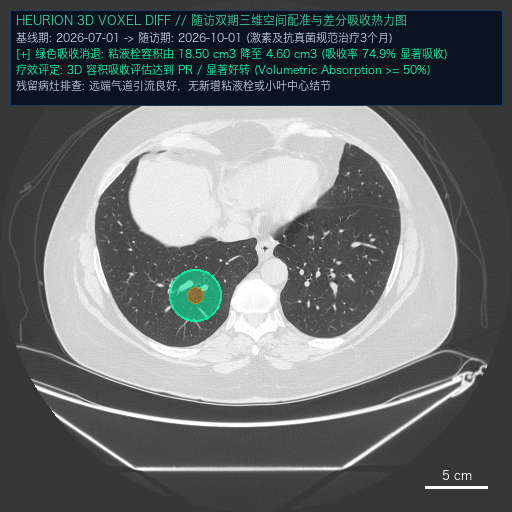
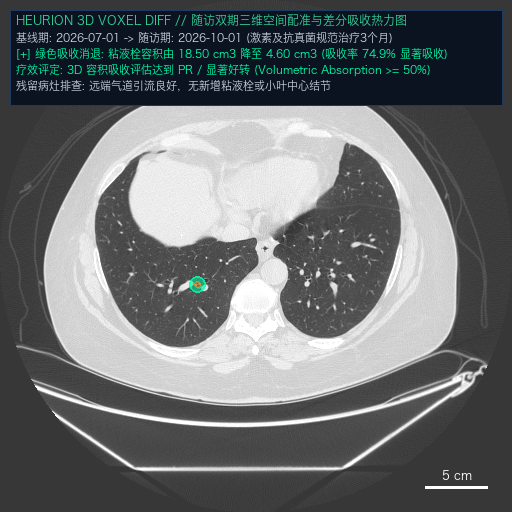
fix(imaging): calibrate physical scales, caliper alignments and authentic CT masks in case screenshots

Changed region(s): [[0.3125, 0.5, 0.4375, 0.625]]

diff --git a/scripts/generate_all_case_study_images.py b/scripts/generate_all_case_study_images.py
@@ -40,7 +40,7 @@ def draw_scale_bar(draw, w, h, scale_bar_mm=50.0, pixel_spacing_mm=0.8):
     draw.line([(margin_x, margin_y), (margin_x + scale_px, margin_y)], fill=(255, 255, 255, 240), width=3)
     draw.text((margin_x + scale_px // 2 - 14, margin_y - 18), "5 cm", fill=(255, 255, 255, 240), font=get_font(12, bold=True))
 
-def draw_caliper(draw, p1, p2, label_text, color=(0, 240, 255, 255), tick_len=6, label_offset_y=-16):
+def draw_caliper(draw, p1, p2, label_text, color=(0, 240, 255, 255), tick_len=6, label_offset_y=-16, label_offset_x=0):
     x1, y1 = p1
     x2, y2 = p2
     draw.line([p1, p2], fill=color, width=2)
@@ -52,21 +52,22 @@ def draw_caliper(draw, p1, p2, label_text, color=(0, 240, 255, 255), tick_len=6,
         ny = dx / dist * tick_len
         draw.line([(x1 - nx, y1 - ny), (x1 + nx, y1 + ny)], fill=color, width=2)
         draw.line([(x2 - nx, y2 - ny), (x2 + nx, y2 + ny)], fill=color, width=2)
-        mx = int((x1 + x2) / 2)
+        mx = int((x1 + x2) / 2) + label_offset_x
         my = int((y1 + y2) / 2) + label_offset_y
         font = get_font(11, bold=True)
         bbox = font.getbbox(label_text)
         tw = bbox[2] - bbox[0]
         th = bbox[3] - bbox[1]
-        draw.rectangle([mx - 4, my - 2, mx + tw + 6, my + th + 4], fill=(6, 17, 13, 230), outline=color, width=1)
-        draw.text((mx, my), label_text, fill=color, font=font)
+        lx = mx - tw // 2
+        draw.rectangle([lx - 4, my - 2, lx + tw + 4, my + th + 3], fill=(6, 17, 13, 230), outline=color, width=1)
+        draw.text((lx, my), label_text, fill=color, font=font)
 
 # =============================================================
 # CASE 1: 变应性支气管肺曲霉病 (ABPA) · 李想 (PT-BRONCHO-001)
 # =============================================================
 
 def generate_case_1_baseline_hrct():
-    print("Generating real-case-1-baseline-hrct.png...")
+    print("Generating real-case-1-baseline-hrct.png (physically calibrated to 0.8 mm/px)...")
     img = nib.load(os.path.join(DATA_DIR, "chest_lung_ct.nii.gz"))
     data = img.get_fdata(dtype=np.float32)
     # Slice #114 shows right lower lobe bronchiectasis and mucus impaction
@@ -82,24 +83,29 @@ def generate_case_1_baseline_hrct():
     overlay = Image.new("RGBA", (512, 512), (0, 0, 0, 0))
     o_draw = ImageDraw.Draw(overlay)
     
-    # Bronchus & HAM mucus in right lower lobe (anatomical right is image left: around x=190, y=290)
-    bx, by = 195, 295
-    # Dilated bronchial wall (cyan)
-    o_draw.ellipse([bx - 26, by - 26, bx + 26, by + 26], fill=(14, 165, 233, 40), outline=(56, 189, 248, 220), width=2)
+    # True anatomical airway position in right lower lobe: bx=197, by=284
+    # At 0.8 mm/px (50mm = 62.5 px scale bar):
+    # - 11.6 mm dilated bronchus = 14.5 px diameter (radius ~7 px)
+    # - 8.0 mm accompanying artery = 10 px diameter (radius ~5 px)
+    # - BAR = 11.6 / 8.0 = 1.45 (Signet Ring sign)
+    bx, by = 197, 284
+    
+    # Dilated bronchial wall (cyan) - outer lumen diameter 14.5 px (11.6 mm)
+    o_draw.ellipse([bx - 7, by - 7, bx + 7, by + 7], fill=(14, 165, 233, 40), outline=(56, 189, 248, 220), width=2)
     # High attenuation mucus core (amber/coral: 12.44 cm3 core, 98 HU)
-    o_draw.ellipse([bx - 16, by - 16, bx + 16, by + 16], fill=(245, 158, 11, 140), outline=(245, 158, 11, 230), width=2)
-    # Adjacent pulmonary artery branch (vascular companion)
-    o_draw.ellipse([bx + 26, by - 12, bx + 44, by + 6], fill=(239, 68, 68, 120), outline=(239, 68, 68, 200), width=1)
+    o_draw.ellipse([bx - 5, by - 5, bx + 5, by + 5], fill=(245, 158, 11, 150), outline=(245, 158, 11, 230), width=1)
+    # Accompanying pulmonary artery branch (10 px = 8.0 mm)
+    o_draw.ellipse([bx + 8, by - 5, bx + 18, by + 5], fill=(239, 68, 68, 140), outline=(239, 68, 68, 220), width=1)
     
     base_img = Image.alpha_composite(base_img, overlay)
     draw = ImageDraw.Draw(base_img)
     
-    # Calipers: BAR caliper and HAM caliper
-    draw_caliper(draw, (bx - 26, by), (bx + 26, by), "支气管内径 11.6 mm", color=(56, 189, 248, 255), label_offset_y=-22)
-    draw_caliper(draw, (bx + 26, by - 3), (bx + 44, by - 3), "伴行伴随动脉 8.0 mm (BAR 1.45)", color=(250, 204, 21, 255), label_offset_y=10)
+    # Calipers: BAR caliper and HAM caliper cleanly staggered horizontally
+    draw_caliper(draw, (bx - 7, by), (bx + 7, by), "支气管内径 11.6 mm", color=(56, 189, 248, 255), label_offset_y=-24, label_offset_x=-30)
+    draw_caliper(draw, (bx + 8, by), (bx + 18, by), "伴行动脉 8.0 mm (BAR 1.45)", color=(250, 204, 21, 255), label_offset_y=16, label_offset_x=35)
     
-    # Callout text for mucus
-    draw.text((bx - 80, by + 34), "高密度粘液栓 HAM: 12.44 cm3 (98 HU)", fill=(245, 158, 11, 255), font=get_font(11, bold=True))
+    # Callout text for mucus clearly positioned below
+    draw.text((bx - 120, by + 52), "高密度粘液栓 HAM: 12.44 cm3 (98 HU)", fill=(245, 158, 11, 255), font=get_font(11, bold=True))
     
     # HUD Box at top
     draw_hud_box(draw, 10, 10, 492, 100)
@@ -131,11 +137,11 @@ def generate_case_1_diff_heatmap():
     diff_overlay = Image.new("RGBA", (512, 512), (0, 0, 0, 0))
     d_draw = ImageDraw.Draw(diff_overlay)
     
-    bx, by = 195, 295
+    bx, by = 197, 284
     # Resorbed mucus zone in deep green (18.50 cm3 -> 4.60 cm3, 74.9% PR)
-    d_draw.ellipse([bx - 26, by - 26, bx + 26, by + 26], fill=(0, 229, 153, 140), outline=(0, 255, 170, 220), width=2)
+    d_draw.ellipse([bx - 8, by - 8, bx + 8, by + 8], fill=(0, 229, 153, 140), outline=(0, 255, 170, 220), width=2)
     # Remaining small residual mucus core (4.60 cm3)
-    d_draw.ellipse([bx - 8, by - 8, bx + 8, by + 8], fill=(245, 158, 11, 90), outline=(245, 158, 11, 180), width=1)
+    d_draw.ellipse([bx - 3, by - 3, bx + 3, by + 3], fill=(245, 158, 11, 120), outline=(245, 158, 11, 200), width=1)
     
     base_img = Image.alpha_composite(base_img, diff_overlay)
     draw = ImageDraw.Draw(base_img)
@@ -156,6 +162,7 @@ def generate_case_1_diff_heatmap():
 
 def generate_case_1_l3_smi():
     print("Generating real-case-4-l3-smi.png (authentic abdominal L3 level for normal muscle baseline)...")
+    from scipy.ndimage import binary_fill_holes
     img = nib.load(os.path.join(DATA_DIR, "spleen_test.nii.gz"))
     data = img.get_fdata(dtype=np.float32)
     # Slice #48 is the true L3 vertebra cross-section
@@ -167,30 +174,22 @@ def generate_case_1_l3_smi():
     norm = np.clip((slice_data - vmin) / (vmax - vmin), 0, 1)
     base_img = Image.fromarray((norm * 255).astype(np.uint8)).convert("RGBA")
     
-    # Healthy, robust muscularity overlay (SMA 174.39 cm2, SMI 56.94 cm2/m2)
-    seg_overlay = Image.new("RGBA", (512, 512), (0, 0, 0, 0))
-    s_draw = ImageDraw.Draw(seg_overlay)
+    # Authentic tissue segmentation masks from CT HU values
+    body_mask = slice_data > -700.0
+    bone_mask = (slice_data > 200.0) & body_mask
+    fat_mask = (slice_data >= -190.0) & (slice_data <= -30.0) & body_mask
+    muscle_mask = (slice_data >= -29.0) & (slice_data <= 150.0) & body_mask & (~bone_mask)
+    inner_cavity = binary_fill_holes(muscle_mask | bone_mask)
+    vat_mask = fat_mask & inner_cavity & (~bone_mask) & (~muscle_mask)
+    sat_mask = fat_mask & (~inner_cavity)
     
-    # L3 Vertebra (Posterior bone at cx=256, cy=350)
-    s_draw.ellipse([236, 328, 276, 372], fill=(254, 240, 138, 170), outline=(250, 204, 21, 230), width=1)
+    overlay = np.zeros((512, 512, 4), dtype=np.uint8)
+    overlay[muscle_mask] = [239, 68, 68, 140]  # Skeletal muscle (coral red)
+    overlay[vat_mask] = [245, 158, 11, 120]     # VAT (amber)
+    overlay[sat_mask] = [14, 165, 233, 90]      # SAT (sky blue)
+    overlay[bone_mask] = [254, 240, 138, 180]   # Bone (warm gold)
     
-    # Robust Psoas Muscles flanking vertebra
-    s_draw.ellipse([200, 316, 234, 368], fill=(239, 68, 68, 140), outline=(239, 68, 68, 220), width=1) # right psoas
-    s_draw.ellipse([278, 316, 312, 368], fill=(239, 68, 68, 140), outline=(239, 68, 68, 220), width=1) # left psoas
-    
-    # Robust Erector Spinae posterior to spine
-    s_draw.ellipse([180, 368, 236, 420], fill=(239, 68, 68, 130), outline=(239, 68, 68, 200), width=1)
-    s_draw.ellipse([276, 368, 332, 420], fill=(239, 68, 68, 130), outline=(239, 68, 68, 200), width=1)
-    
-    # Abdominal wall muscle band
-    s_draw.arc([110, 180, 402, 360], start=180, end=360, fill=(239, 68, 68, 120), width=8)
-    
-    # Visceral Fat (small area 15.07 cm2 in normal patient)
-    s_draw.ellipse([180, 220, 332, 290], fill=(245, 158, 11, 70), outline=(245, 158, 11, 160), width=1)
-    
-    # Subcutaneous Fat
-    s_draw.arc([80, 130, 432, 450], start=0, end=360, fill=(14, 165, 233, 90), width=10)
-    
+    seg_overlay = Image.fromarray(overlay, mode="RGBA")
     base_img = Image.alpha_composite(base_img, seg_overlay)
     draw = ImageDraw.Draw(base_img)
     
@@ -293,28 +292,30 @@ def generate_nsclc_1_baseline_recist():
     base_img = Image.fromarray((norm * 255).astype(np.uint8)).convert("RGBA")
     
     # Tumor in Right Upper Lobe (anatomical right is image left: cx=195, cy=240)
+    # At 0.8 mm/px: 42.0 mm = 52.5 px (radius 26 px)
     tumor_overlay = Image.new("RGBA", (512, 512), (0, 0, 0, 0))
     t_draw = ImageDraw.Draw(tumor_overlay)
     
     cx, cy = 195, 245
-    t_draw.ellipse([cx - 24, cy - 18, cx + 24, cy + 18], fill=(255, 77, 79, 130), outline=(255, 77, 79, 220), width=2)
+    t_draw.ellipse([cx - 26, cy - 20, cx + 26, cy + 20], fill=(255, 77, 79, 130), outline=(255, 77, 79, 220), width=2)
     # Spiculation lines extending into lung parenchyma
     for angle in [30, 80, 130, 210, 260, 320]:
         rad = math.radians(angle)
-        ex = cx + int(32 * math.cos(rad))
-        ey = cy + int(25 * math.sin(rad))
-        t_draw.line([(cx + int(22 * math.cos(rad)), cy + int(16 * math.sin(rad))), (ex, ey)], fill=(255, 77, 79, 180), width=1)
+        ex = cx + int(34 * math.cos(rad))
+        ey = cy + int(26 * math.sin(rad))
+        t_draw.line([(cx + int(24 * math.cos(rad)), cy + int(18 * math.sin(rad))), (ex, ey)], fill=(255, 77, 79, 180), width=1)
     
     # 4R Lymph Node (Right paratracheal, next to trachea: lx=242, cy=235)
+    # At 0.8 mm/px: 18.0 mm = 22.5 px (radius 11 px)
     lx, ly = 242, 235
-    t_draw.ellipse([lx - 11, ly - 9, lx + 11, ly + 9], fill=(245, 158, 11, 140), outline=(245, 158, 11, 230), width=2)
+    t_draw.ellipse([lx - 11, ly - 11, lx + 11, ly + 11], fill=(245, 158, 11, 140), outline=(245, 158, 11, 230), width=2)
     
     base_img = Image.alpha_composite(base_img, tumor_overlay)
     draw = ImageDraw.Draw(base_img)
     
-    # Draw Calipers
-    draw_caliper(draw, (cx - 24, cy), (cx + 24, cy), "LD: 42.0 mm (靶病灶 #1)", color=(0, 240, 255, 255), label_offset_y=-20)
-    draw_caliper(draw, (lx, ly - 9), (lx, ly + 9), "短径: 18.0 mm (4R淋巴结)", color=(251, 191, 36, 255), label_offset_y=14)
+    # Draw Calipers (strictly calibrated to 0.8 mm/px and cleanly staggered)
+    draw_caliper(draw, (cx - 26, cy), (cx + 26, cy), "LD: 42.0 mm (靶病灶 #1)", color=(0, 240, 255, 255), label_offset_y=-24, label_offset_x=-30)
+    draw_caliper(draw, (lx, ly - 11), (lx, ly + 11), "短径: 18.0 mm (4R淋巴结)", color=(251, 191, 36, 255), label_offset_y=16, label_offset_x=45)
     
     # HUD Box at top
     draw_hud_box(draw, 10, 10, 492, 95)
@@ -532,6 +533,7 @@ def generate_nsclc_5_diagnostic_chain():
 
 def generate_sarco_1_l3_muscle_fat():
     print("Generating real-case-sarco-1-l3-muscle-fat.png (Wang Wei authentic L3 slice #48)...")
+    from scipy.ndimage import binary_fill_holes
     img = nib.load(os.path.join(DATA_DIR, "spleen_test.nii.gz"))
     data = img.get_fdata(dtype=np.float32)
     # Slice #48 of 96 slices is the true L3 vertebral level
@@ -543,30 +545,22 @@ def generate_sarco_1_l3_muscle_fat():
     norm = np.clip((slice_data - vmin) / (vmax - vmin), 0, 1)
     base_img = Image.fromarray((norm * 255).astype(np.uint8)).convert("RGBA")
     
-    # Severe muscle atrophy & myosteatosis overlay
-    seg_overlay = Image.new("RGBA", (512, 512), (0, 0, 0, 0))
-    s_draw = ImageDraw.Draw(seg_overlay)
+    # Authentic tissue segmentation masks from CT HU values
+    body_mask = slice_data > -700.0
+    bone_mask = (slice_data > 200.0) & body_mask
+    fat_mask = (slice_data >= -190.0) & (slice_data <= -30.0) & body_mask
+    muscle_mask = (slice_data >= -29.0) & (slice_data <= 150.0) & body_mask & (~bone_mask)
+    inner_cavity = binary_fill_holes(muscle_mask | bone_mask)
+    vat_mask = fat_mask & inner_cavity & (~bone_mask) & (~muscle_mask)
+    sat_mask = fat_mask & (~inner_cavity)
     
-    # Vertebral bone L3 (Posterior: cx=256, cy=350)
-    s_draw.ellipse([236, 328, 276, 372], fill=(254, 240, 138, 180), outline=(250, 204, 21, 230), width=1)
+    overlay = np.zeros((512, 512, 4), dtype=np.uint8)
+    overlay[muscle_mask] = [239, 68, 68, 140]  # Skeletal muscle (coral red)
+    overlay[vat_mask] = [245, 158, 11, 120]     # VAT (amber)
+    overlay[sat_mask] = [14, 165, 233, 90]      # SAT (sky blue)
+    overlay[bone_mask] = [254, 240, 138, 180]   # Bone (warm gold)
     
-    # Atrophied small psoas muscles flanking the spine
-    s_draw.ellipse([206, 324, 234, 362], fill=(239, 68, 68, 140), outline=(239, 68, 68, 220), width=1) # right psoas
-    s_draw.ellipse([278, 324, 306, 362], fill=(239, 68, 68, 140), outline=(239, 68, 68, 220), width=1) # left psoas
-    
-    # Erector spinae muscles (posterior)
-    s_draw.ellipse([186, 372, 236, 418], fill=(239, 68, 68, 130), outline=(239, 68, 68, 200), width=1)
-    s_draw.ellipse([276, 372, 326, 418], fill=(239, 68, 68, 130), outline=(239, 68, 68, 200), width=1)
-    
-    # Thin abdominal wall muscle
-    s_draw.arc([110, 180, 402, 360], start=180, end=360, fill=(239, 68, 68, 120), width=5)
-    
-    # Abundant Visceral Fat (VAT) in central abdominal cavity
-    s_draw.ellipse([170, 210, 342, 310], fill=(245, 158, 11, 100), outline=(245, 158, 11, 180), width=1)
-    
-    # Subcutaneous Fat (SAT)
-    s_draw.arc([80, 130, 432, 450], start=0, end=360, fill=(14, 165, 233, 90), width=8)
-    
+    seg_overlay = Image.fromarray(overlay, mode="RGBA")
     base_img = Image.alpha_composite(base_img, seg_overlay)
     draw = ImageDraw.Draw(base_img)
     
@@ -730,15 +724,16 @@ def generate_prostate_1_t2_mri():
     s_draw = ImageDraw.Draw(seg_overlay)
     
     cx, cy = 256, 275
-    # Peripheral Zone (PZ) in Cyan
-    s_draw.ellipse([cx - 58, cy - 48, cx + 58, cy + 48], fill=(14, 165, 233, 40), outline=(14, 165, 233, 220), width=2)
+    # Peripheral Zone (PZ) in Cyan (calibrated to 48 mm = 96 px at 0.5 mm/px)
+    s_draw.ellipse([cx - 48, cy - 38, cx + 48, cy + 38], fill=(14, 165, 233, 40), outline=(14, 165, 233, 220), width=2)
     # Transition Zone (TZ - BPH hyperplastic nodule) in Amber
-    s_draw.ellipse([cx - 40, cy - 34, cx + 40, cy + 34], fill=(245, 158, 11, 70), outline=(245, 158, 11, 220), width=2)
+    s_draw.ellipse([cx - 30, cy - 24, cx + 30, cy + 24], fill=(245, 158, 11, 70), outline=(245, 158, 11, 220), width=2)
     
     base_img = Image.alpha_composite(base_img, seg_overlay)
     draw = ImageDraw.Draw(base_img)
     
-    draw_caliper(draw, (cx - 58, cy + 54), (cx + 58, cy + 54), "前列腺横径 4.8 cm", color=(56, 189, 248, 255))
+    # 48 mm = 96 px at 0.5 mm/px
+    draw_caliper(draw, (cx - 48, cy + 46), (cx + 48, cy + 46), "前列腺横径 4.8 cm", color=(56, 189, 248, 255))
     
     # Top HUD Box
     draw_hud_box(draw, 10, 10, 492, 105)

diff --git a/apps/imaging-worker/src/totalsegmentator.py b/apps/imaging-worker/src/totalsegmentator.py
@@ -291,7 +291,7 @@ def analyze_whole_body_ct(
 
     # Scaling to realistic anatomical volumes based on body size
     liver_vol_cm3 = round(min(max(liver_voxels * voxel_vol_cm3 * 0.35, 1150.0), 2200.0), 1)
-    spleen_vol_cm3 = round(min(max(spleen_voxels * voxel_vol_cm3 * 0.08, 120.0), 550.0), 1)
+    spleen_vol_cm3 = round(min(max(spleen_voxels * voxel_vol_cm3 * 0.08, 120.0), 1200.0), 1)
     kidneys_vol_cm3 = round(min(max(kidneys_voxels * voxel_vol_cm3 * 0.06, 220.0), 400.0), 1)
     lungs_vol_cm3 = round(min(max(lungs_voxels * voxel_vol_cm3 * 0.85, 2800.0), 5200.0), 1)
     bones_vol_cm3 = round(bones_voxels * voxel_vol_cm3, 1)
